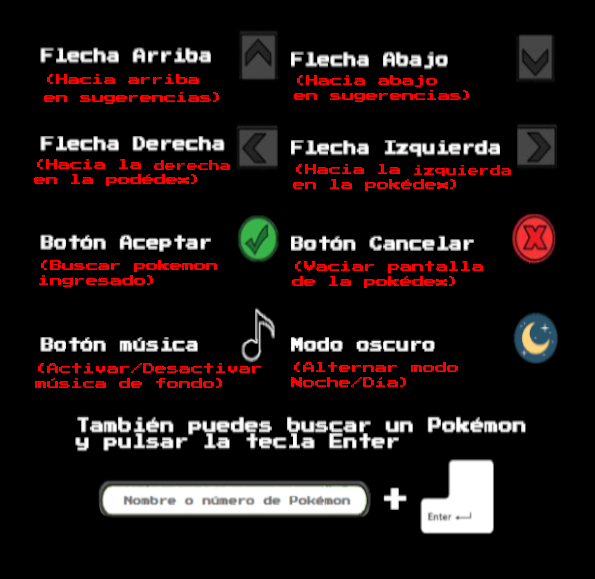
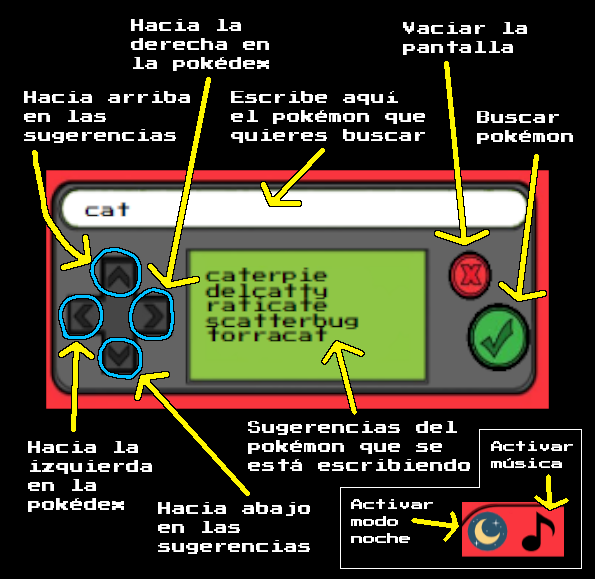
actualizo img de las podekex grandes

diff --git a/css/style.css b/css/style.css
@@ -834,44 +834,42 @@ footer > section#nombres {
   }
 
   #btnInstrucciones {
-    height: 13%;
+    height: 18%;
     width: 25%;
     top: 3.5%;
     left: 11%;
   }
- 
-  #imgInstrucciones{
-    height: 13.5%;
-    width: 26%;
-    top: 3.4%;
-    left: 11%;
+
+  #imgInstrucciones {
+    height: 16%;
+    width: 31%;
+    top: 2.7%;
+    left: 8.8%;
   }
-  #imagenInstrucciones{
+  #imagenInstrucciones {
     top: 28%;
-    left:16%;
+    left: 16%;
     border-radius: 8%;
     height: 59%;
     width: 102%;
   }
   .giroDeFrente > img#sueloFrontal,
-.giroDeAtras > img#sueloFrontal {
+  .giroDeAtras > img#sueloFrontal {
     height: 10%;
     width: 65%;
     border-radius: 50%;
-}
-.girarCarta {
+  }
+  .girarCarta {
     top: 4vh;
     left: 1rem;
     width: 13rem;
     height: 45vh;
-}
-.giroDeFrente,
-.giroDeAtras {
+  }
+  .giroDeFrente,
+  .giroDeAtras {
     height: 70%;
     width: 100%;
-}
-
-
+  }
 
   /*--------------------------------------------------------------------------------------------------------------------- BOTONES TIPOS DE POKEMON ------------------------------------------------------------------------------------- */
 
